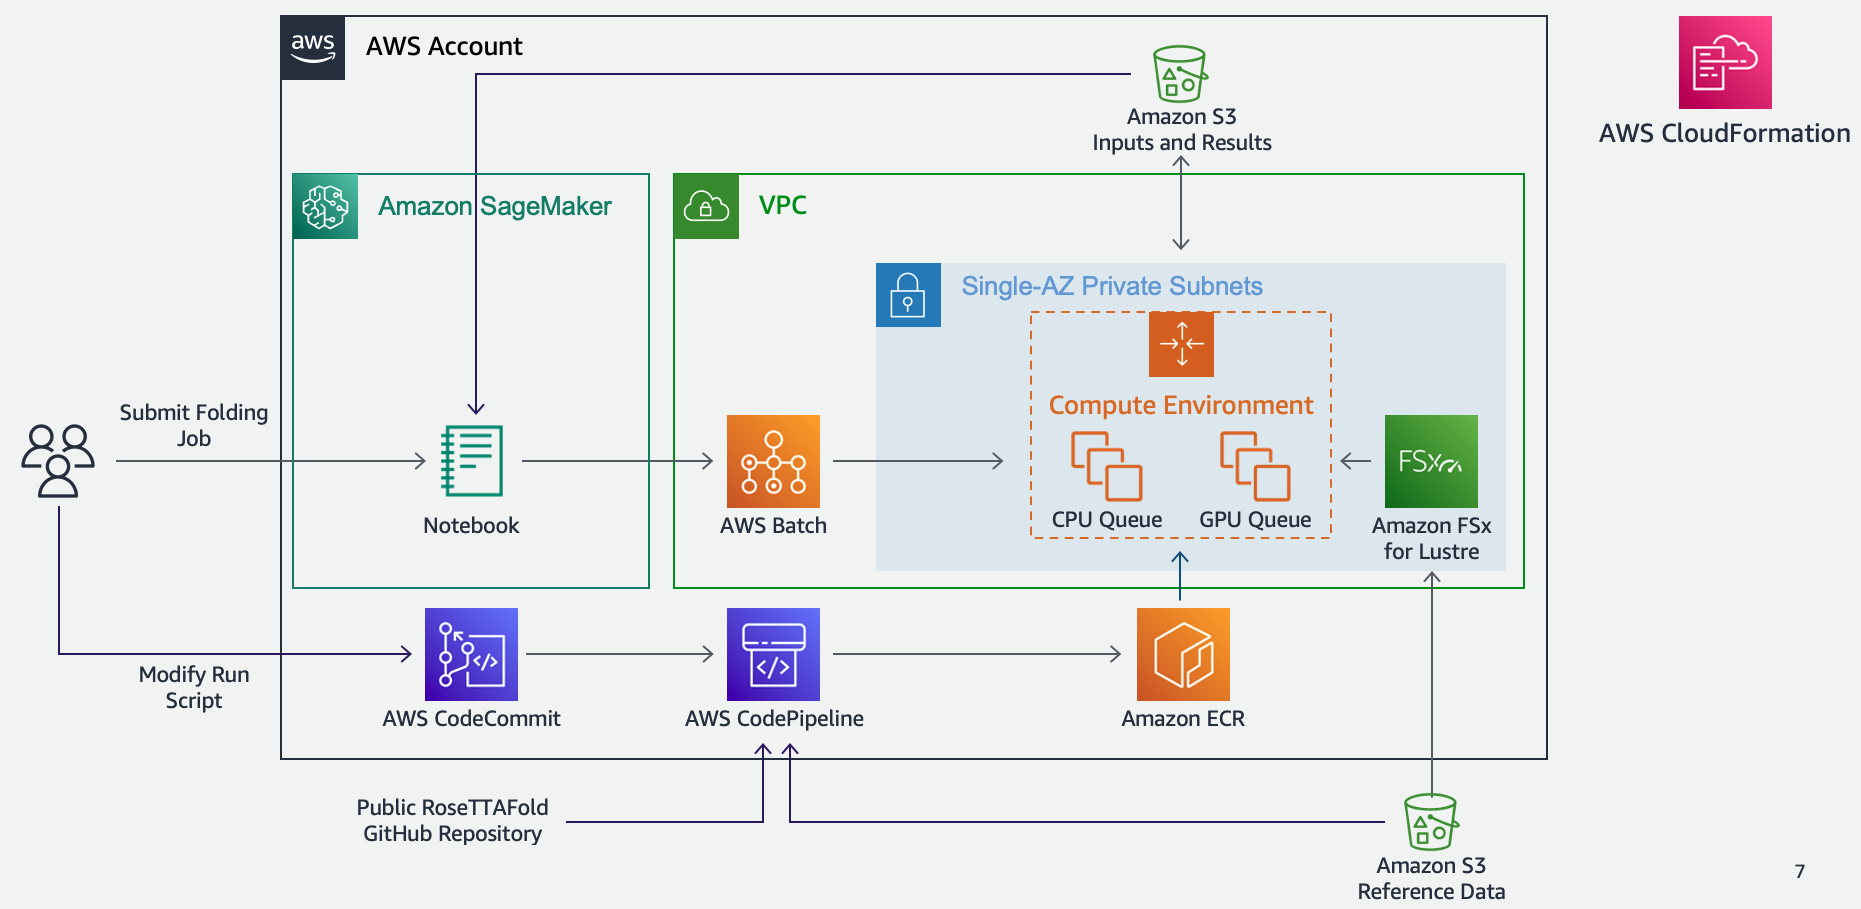
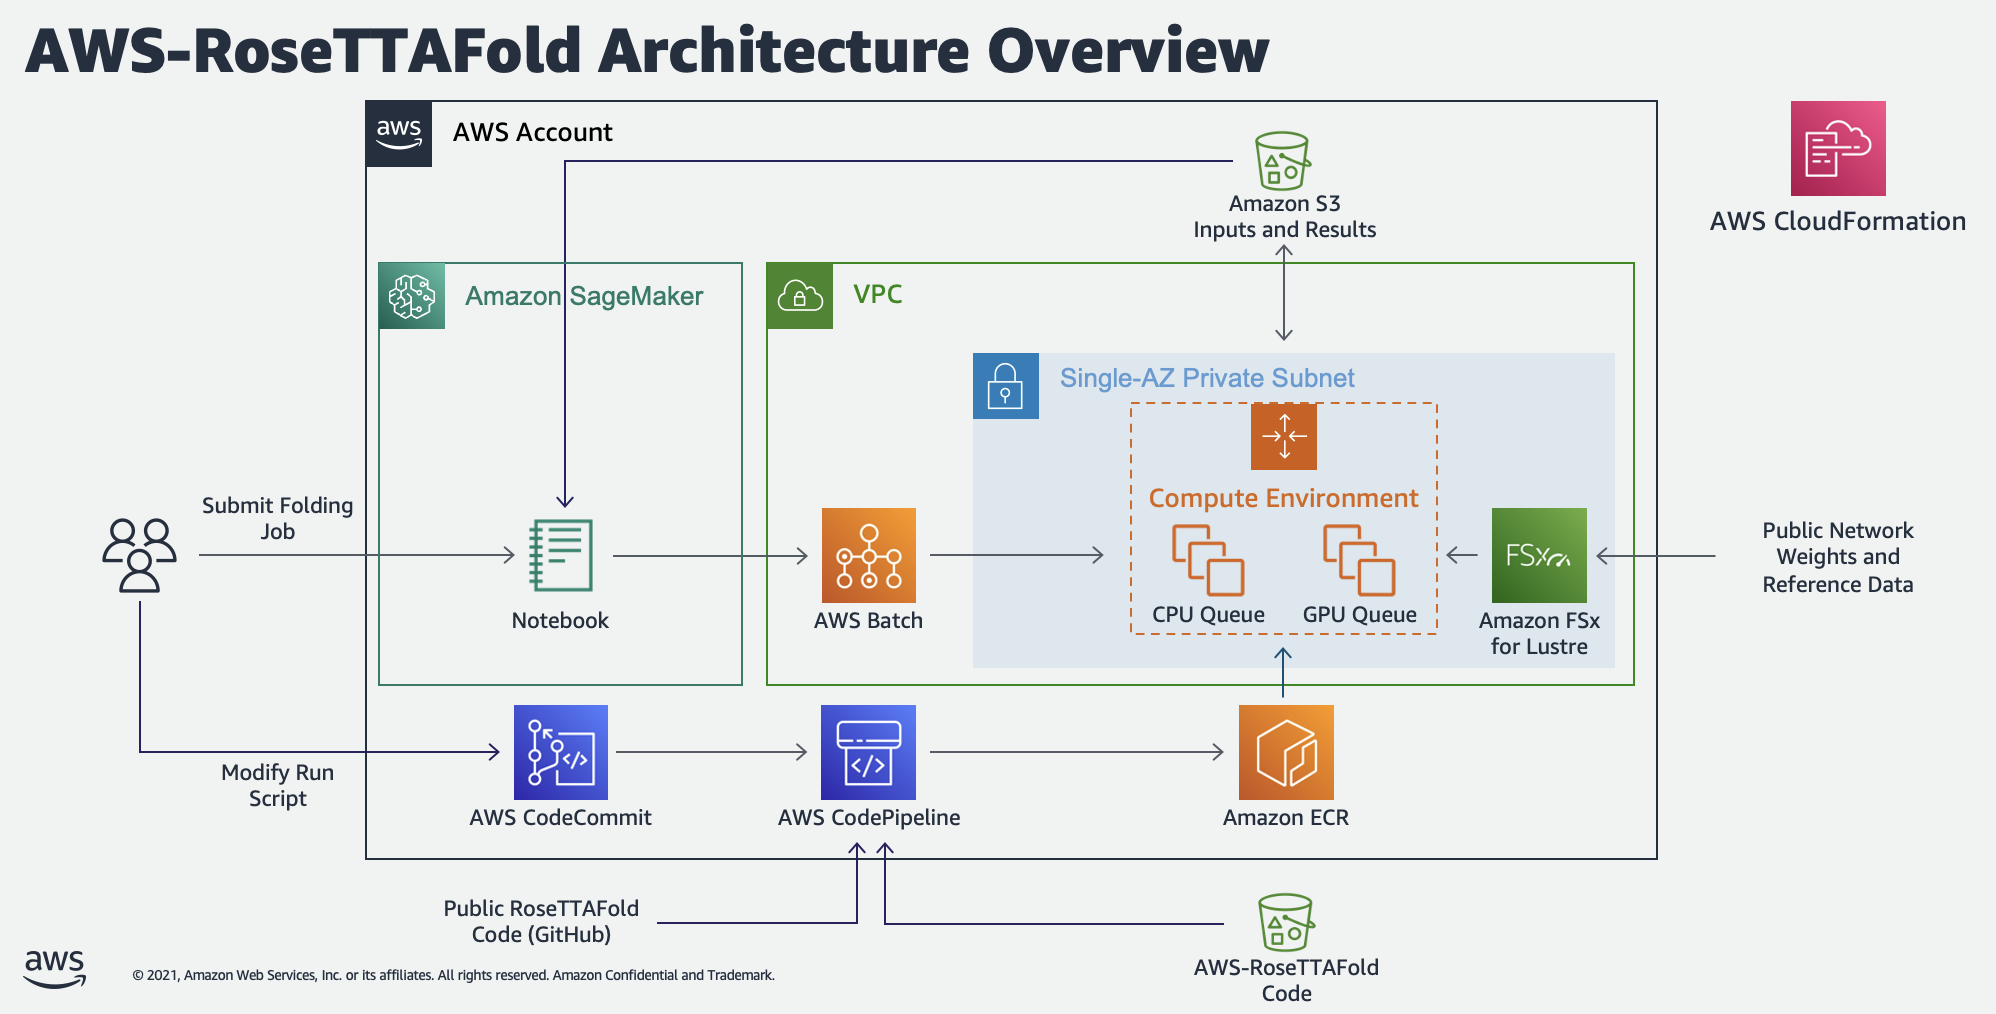
Update installation instructions per OSS guidance

diff --git a/README.md b/README.md
@@ -23,23 +23,15 @@ This project demonstrates how to provision and use AWS services for running the 
 7. Download and extract the RoseTTAFold network weights (under [Rosetta-DL Software license](https://files.ipd.uw.edu/pub/RoseTTAFold/Rosetta-DL_LICENSE.txt)), and sequence and structure databases to the newly-created FSx for Lustre file system. There are two ways to do this:
 
 ### Option 1
-In the AWS Console, navigate to Batch > Job Definition, select the definition named "aws-rosettafold-download-<STACK ID>", click "Submit new job", and then "Submit" with the default parameters. The batch job will take approximately 12 hours to download and extract all data.
+In the AWS Console, navigate to **EC2 > Launch Templates**, select the template named "aws-rosettafold-launch-template-<STACK ID>", and then **Actions > Launch instance from template**. Select the Amazon Linux 2 AMI and launch the instance into the public subnet with a public IP. SSH into the instance and download your network weights and reference data of interest to the attached `/fsx` volume (i.e. Installation steps 3 and 5 from the [RoseTTAFold public repository](https://github.com/RosettaCommons/RoseTTAFold))
 
-### Option 2
-In the AWS Console, navigate to EC2 > Launch Templates, select the template named "aws-rosettafold-launch-template-<STACK ID>", and then Actions > Launch instance from template. Select the Amazon Linux 2 AMI and launch the instance into the public subnet with a public IP. SSH into the instance and download your network weights and reference data of interest to the attached `/fsx` volume.
+## Option 2
+Create a new S3 bucket in your region of interest. Spin up an EC2 instance in a public subnet in the same region and use this to download and extract the network weights and reference data. Once this is complete, copy the extracted data to S3. In the AWS Console, navigate to **FSx > File Systems** and select the FSx for Lustre file system created above. Link this file system to your new S3 bucket using [these instructions](https://docs.aws.amazon.com/fsx/latest/LustreGuide/create-dra-linked-data-repo.html#create-linked-dra). Note that the first job you submit using this data repository will cause the FSx file system to transfer and compress 3 TB of reference data from S3. This process will require 1-2 hours to complete.
 
-```
-cd /fsx
-wget https://files.ipd.uw.edu/pub/RoseTTAFold/weights.tar.gz -O - | tar -xz
-wget http://wwwuser.gwdg.de/~compbiol/uniclust/2020_06/UniRef30_2020_06_hhsuite.tar.gz -O - | tar -xz
-wget https://files.ipd.uw.edu/pub/RoseTTAFold/pdb100_2020Mar11.tar.gz -O - | tar -xz
-wget https://bfd.mmseqs.com/bfd_metaclust_clu_complete_id30_c90_final_seq.sorted_opt.tar.gz -O - | tar -xz
-```
-
-Once this is complete, your file system should look like this:
+Once this is complete, your FSx for Lustre file system should look like this:
 
 ```
-.
+/fsx
 ├── bfd
 │   ├── bfd_metaclust_clu_complete_id30_c90_final_seq.sorted_opt_a3m.ffdata (1.4 TB)
 │   ├── bfd_metaclust_clu_complete_id30_c90_final_seq.sorted_opt_a3m.ffindex (1.7 GB)
@@ -73,7 +65,7 @@ Once this is complete, your file system should look like this:
 
 ```
 8. Clone the CodeCommit repository created by CloudFormation to a Jupyter Notebook environment of your choice.
-9. Use the `AWS-RoseTTAFold.ipynb` and `CASP14-Analysis.ipynb` notebooks to submit protein sequences for analysis. Note that the first job you submit will cause the FSx file system to transfer and compress 3 TB of reference data from S3. This process will require 3-4 hours to complete. The duration of subsequent jobs will depend on the length and complexity of the protein sequence.
+9. Use the `AWS-RoseTTAFold.ipynb` and `CASP14-Analysis.ipynb` notebooks to submit protein sequences for analysis.
 
 ## Architecture
 
@@ -83,12 +75,10 @@ This project creates two computing environments in AWS Batch to run the "end-to-
 
 A scientist can create structure prediction jobs using one of the two included Jupyter notebooks. `AWS-RoseTTAFold.ipynb` demonstrates how to submit a single analysis job and view the results. `CASP14-Analysis.ipynb` demonstrates how to submit multiple jobs at once using the CASP14 target list. In both of these cases, submitting a sequence for analysis creates two Batch jobs, one for data preparation (using the CPU computing environment) and a second, dependent job for structure prediction (using the GPU computing environment). 
 
-During execution, both the data preparation and structure prediction jobs require access to several public reference data sets, including `Uniref30`, `BFD`, and `pdb100`. For convinience, we've provided this data in public S3 buckets, which are automatically replicated to FSx Lustre file systems when the first job executes. These buckets are currently available in the `us-east-1` and `us-west-2` regions only. NOTE TO AMAZONIANS: these buckets aren't actually public yet, they're open to the CORP Cidr blocks. This will change once OSS approval is in place.
-
 Both the data preparation and structure prediction use the same Docker image for execution. This image, based on the public Nvidia CUDA image for Ubuntu 20, includes the v1.1 release of the public [RoseTTAFold repository](https://github.com/RosettaCommons/RoseTTAFold), as well as additional scripts for integrating with AWS services. CodeBuild will automatically download this container definition and build the required image during stack creation. However, end users can make changes to this image by pushing to the CodeCommit repository included in the stack .
 
 ## Costs
-This workload costs approximately $270 per month to maintain, plus another $2.56 per job.
+This workload costs approximately $217 per month to maintain, plus another $2.56 per job.
 
 ## Deployment
 
@@ -96,13 +86,13 @@ This workload costs approximately $270 per month to maintain, plus another $2.56
 
 Running the CloudFormation template at `config/cfn.yaml` creates the following resources in the specified availability zone:
 1. A new VPC with a private subnet, public subnet, NAT gateway, internet gateway, elastic IP, route tables, and S3 gateway endpoint.
-2. A FSx Lustre file system with 1.2 TiB of storage and 120 MB/s throughput capacity. This file system is linked to the reference data S3 bucket for the region of interest (us-east-1 or us-west-2) for loading the required reference data when the first job executes.
+2. A FSx Lustre file system with 1.2 TiB of storage and 120 MB/s throughput capacity. This file system can be linked to an S3 bucket for loading the required reference data when the first job executes.
 3. An EC2 launch template for mounting the FSX file system to Batch compute instances.
 4. A set of AWS Batch compute environments, job queues, and job definitions for running the CPU-dependent data prep job and a second for the GPU-dependent prediction job.
-5. CodeCommit, CodeBuild, CodePipeline, and ECR resources for building and publishing the Batch container image. When CloudFormation creates the CodeCommit repository, it populates it with the code stored in the reference data S3 bucket. This is the same bucket used as the data repository for FSx. CodeBuild uses this repository as its source and adds additional code from release 1.1 of the public [RoseTTAFold repository](https://github.com/RosettaCommons/RoseTTAFold). CodeBuild then publishes the resulting container image to ECR, where Batch jobs can use it as needed.
+5. CodeCommit, CodeBuild, CodePipeline, and ECR resources for building and publishing the Batch container image. When CloudFormation creates the CodeCommit repository, it populates it with a zipped version of this repository stored at `s3://aws-rosettafold-ref-data`. CodeBuild uses this repository as its source and adds additional code from release 1.1 of the public [RoseTTAFold repository](https://github.com/RosettaCommons/RoseTTAFold). CodeBuild then publishes the resulting container image to ECR, where Batch jobs can use it as needed.
 
 ## Licensing
-The University of Washington has made the code and data in the [RoseTTAFold public repository](https://github.com/RosettaCommons) available under an [MIT license](https://github.com/RosettaCommons/RoseTTAFold/blob/main/LICENSE). However, the model weights used for prediction (available in the `/weights` folder in the reference data S3 bucket) are only available for internal, non-profit, non-commercial research use only. Fore information, please see the [full license agreement](https://files.ipd.uw.edu/pub/RoseTTAFold/Rosetta-DL_LICENSE.txt) and contact the University of Washington for details.
+The University of Washington has made the code and data in the [RoseTTAFold public repository](https://github.com/RosettaCommons) available under an [MIT license](https://github.com/RosettaCommons/RoseTTAFold/blob/main/LICENSE). However, the model weights used for prediction are only available for internal, non-profit, non-commercial research use only. Fore information, please see the [full license agreement](https://files.ipd.uw.edu/pub/RoseTTAFold/Rosetta-DL_LICENSE.txt) and contact the University of Washington for details.
 
 ## More Information
 - [University of Washington Institute for Protein Design](https://www.ipd.uw.edu/2021/07/rosettafold-accurate-protein-structure-prediction-accessible-to-all/)
